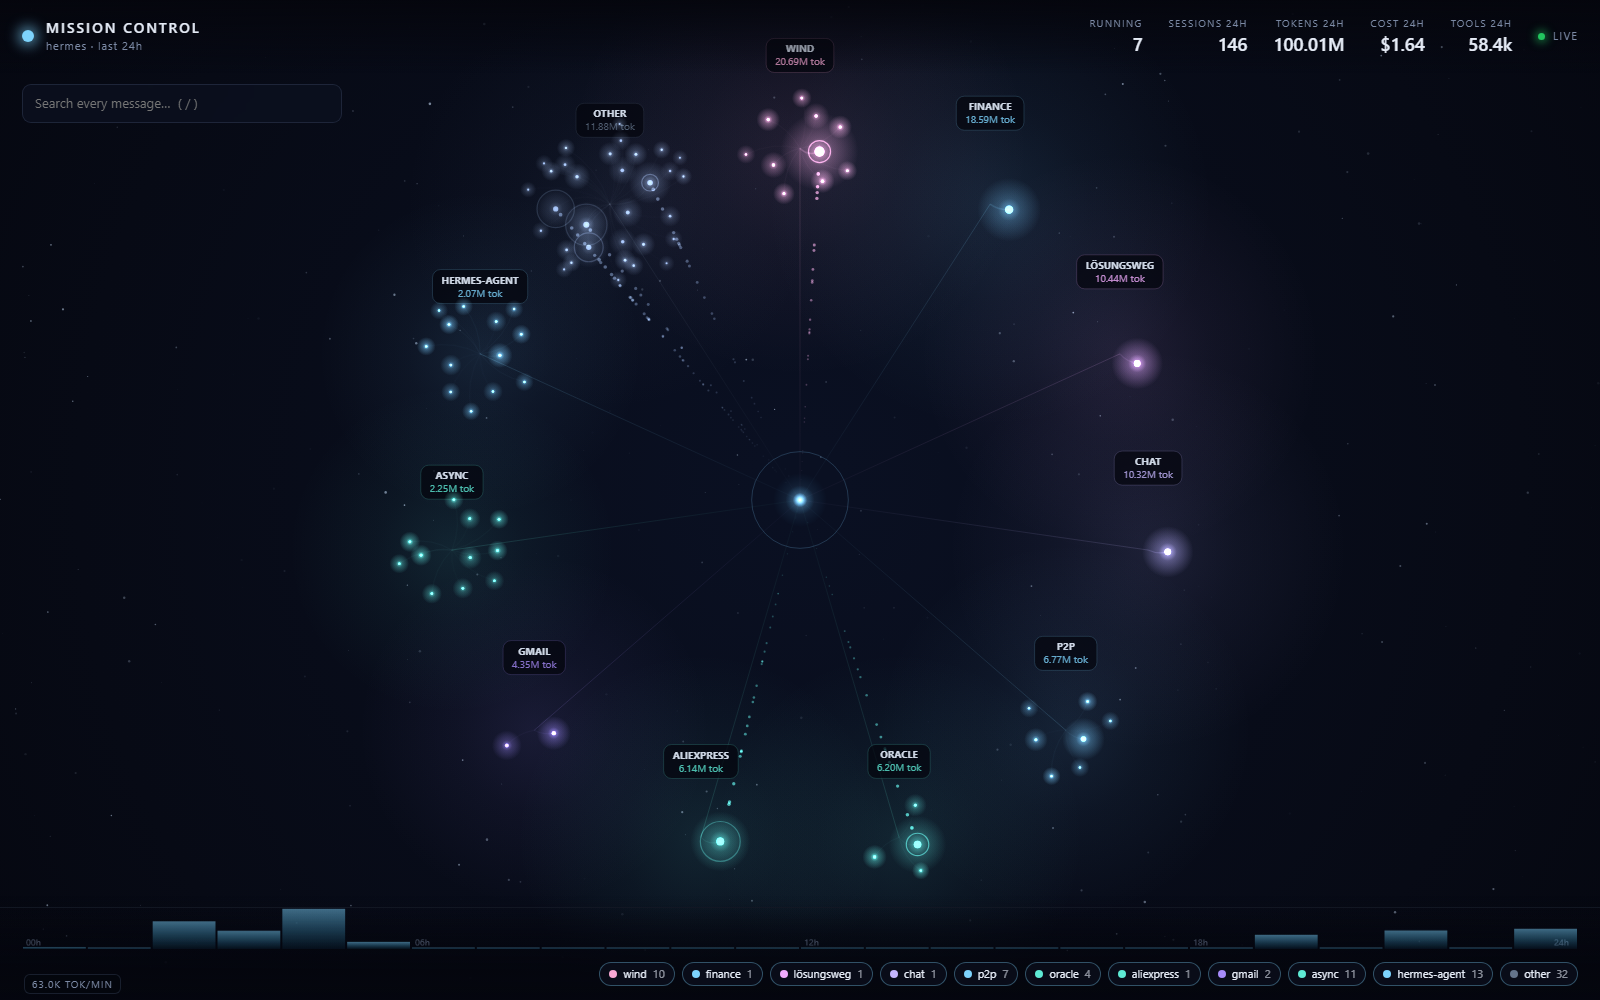
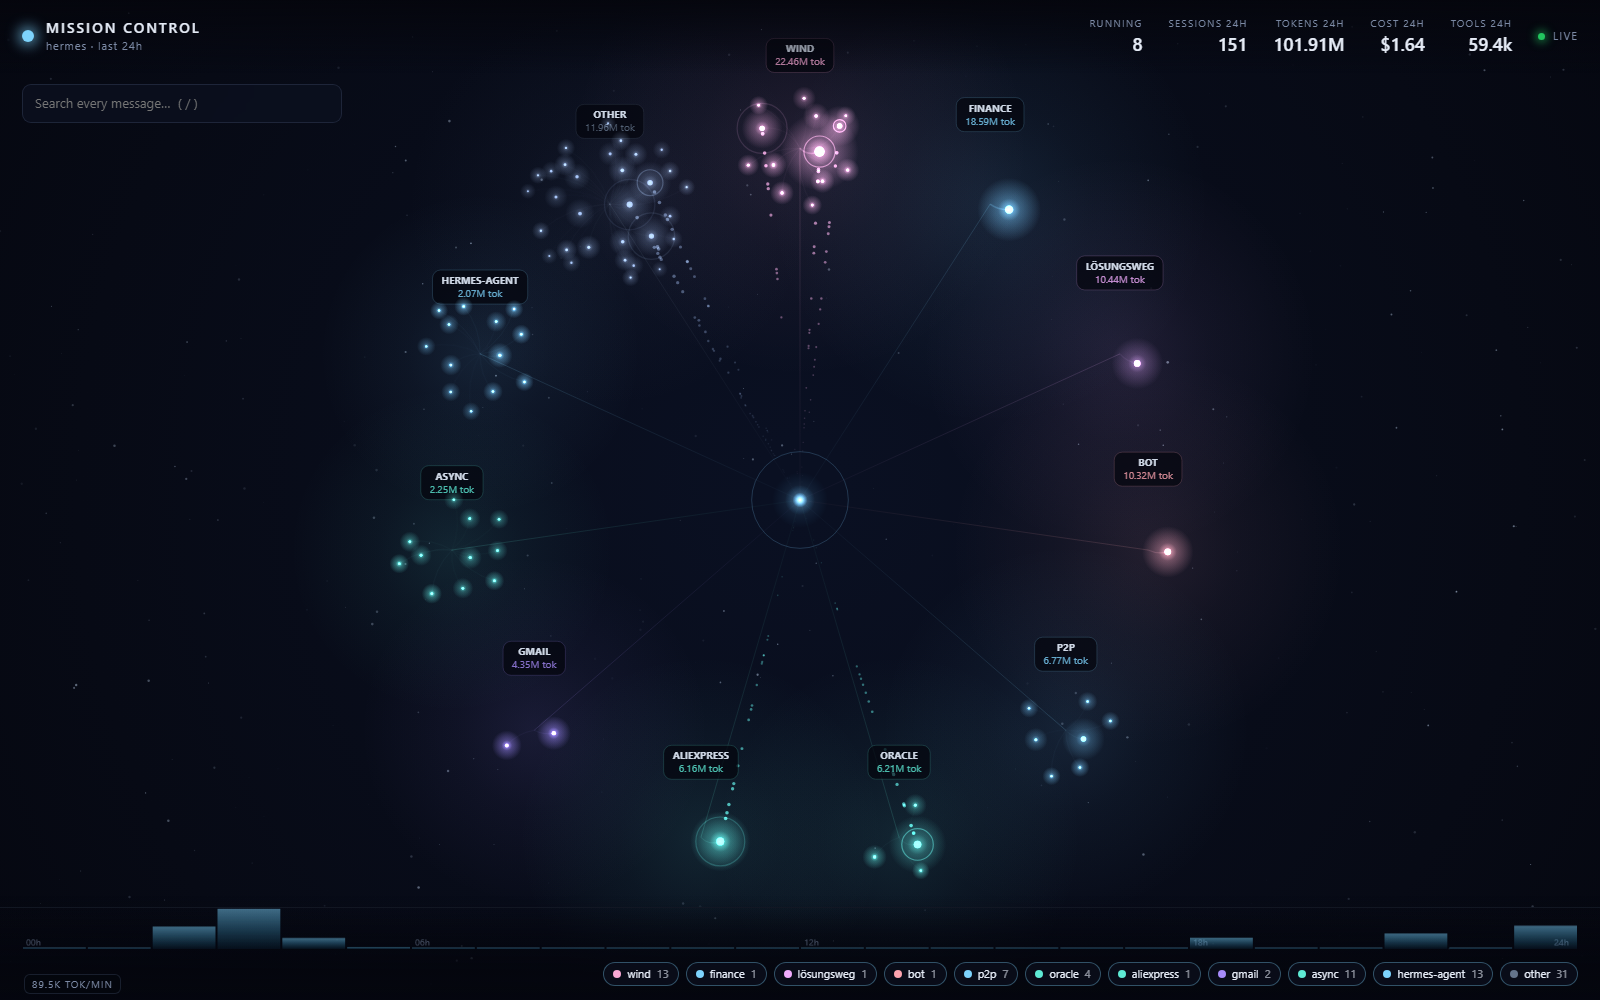
fix(tools): obey the plugin dispatch contract (args dict in, JSON string out)

diff --git a/mission/tools.py b/mission/tools.py
@@ -1,8 +1,12 @@
-"""Tool handlers: open the deck, read the deck, search the deck."""
+"""Tool handlers.
+
+Hermes dispatches plugin tools as ``handler(args: dict, **context)`` and requires a
+**string** result, so every entry point here takes a dict and returns JSON text.
+"""
 
 from __future__ import annotations
 
-import time
+import json
 
 from . import server, store
 
@@ -16,14 +20,18 @@ def _fmt(n: float) -> str:
     return str(int(n))
 
 
-def open_deck(port: int = server.DEFAULT_PORT, open_browser: bool = True) -> dict:
-    info = server.start(port=port, open_browser=open_browser)
+def _open(port: int = server.DEFAULT_PORT, open_browser: bool = True) -> dict:
+    try:
+        info = server.start(port=port, open_browser=open_browser)
+    except OSError:
+        # another profile already holds that port — take a free one instead of failing
+        info = server.start(port=0, open_browser=open_browser)
     snap = store.snapshot(hours=24)
     t = snap["totals"]
     lines = [
         f"Mission Control: {info['url']}",
         f"last 24h · {t['sessions']} sessions · {_fmt(t['tokens'])} tokens · ${t['cost']:.2f} · "
-        f"{t['tools']} tool calls · {t['running']} running",
+        f"{t['tools']} tool messages · {t['running']} running",
     ]
     live = [s for s in snap["sessions"] if s["live"]]
     for s in live[:6]:
@@ -40,13 +48,13 @@ def open_deck(port: int = server.DEFAULT_PORT, open_browser: bool = True) -> dic
     }
 
 
-def snapshot(hours: int = 24, top: int = 5) -> dict:
+def _snapshot(hours: int = 24, top: int = 5) -> dict:
     snap = store.snapshot(hours=hours)
     t = snap["totals"]
     burners = sorted(snap["sessions"], key=lambda s: -s["tokens"])[:top]
     lines = [
         f"{snap['profile']} · last {hours}h",
-        f"{t['sessions']} sessions · {_fmt(t['tokens'])} tokens · ${t['cost']:.2f} · {t['tools']} tool calls · {t['running']} running",
+        f"{t['sessions']} sessions · {_fmt(t['tokens'])} tokens · ${t['cost']:.2f} · {t['tools']} tool messages · {t['running']} running",
         "clusters: " + ", ".join(f"{c['label']} ({c['sessions']})" for c in snap["clusters"][:8]),
         "top token users:",
     ]
@@ -58,22 +66,48 @@ def snapshot(hours: int = 24, top: int = 5) -> dict:
     return {"ok": True, "summary": "\n".join(lines), "totals": t, "clusters": snap["clusters"][:8]}
 
 
-def search(query: str, limit: int = 20) -> dict:
+def _search(query: str, limit: int = 20) -> dict:
     hits = store.search(query, limit=limit)
     if not hits:
         return {"ok": True, "hits": [], "summary": f'no message contains "{query}"'}
     lines = [f'{len(hits)} hits for "{query}"']
     for h in hits[:10]:
         snippet = " ".join((h.get("snippet") or "").split())[:110]
-        lines.append(f"  {h['title'][:40]:<40} | {h['id']} | {snippet}")
+        lines.append(f"  {(h.get('title') or '')[:40]:<40} | {h['id']} | {snippet}")
     return {"ok": True, "hits": hits, "summary": "\n".join(lines)}
 
 
-def waste() -> dict:
+def _waste() -> dict:
     rows = store.waste()
     if not rows:
         return {"ok": True, "sessions": [], "summary": "no expensive low-action sessions in the last 7 days"}
     lines = ["most tokens per tool call (last 7d):"]
     for r in rows:
-        lines.append(f"  {_fmt(r['tokens']):>7} tok / {r['tools']:>2} tools · {r['title'][:56]}")
+        lines.append(f"  {_fmt(r['tokens']):>7} tok / {r['tools']:>2} tools · {(r.get('title') or '')[:56]}")
     return {"ok": True, "sessions": rows, "summary": "\n".join(lines)}
+
+
+def _as_text(payload: dict) -> str:
+    return json.dumps(payload, indent=2, ensure_ascii=False, default=str)
+
+
+# --- dispatched entry points (dict in, string out) ---------------------------
+
+def open_deck(args: dict | None = None, **_context) -> str:
+    args = args or {}
+    return _as_text(_open(int(args.get("port", server.DEFAULT_PORT)),
+                          bool(args.get("open_browser", True))))
+
+
+def snapshot(args: dict | None = None, **_context) -> str:
+    args = args or {}
+    return _as_text(_snapshot(int(args.get("hours", 24)), int(args.get("top", 5))))
+
+
+def search(args: dict | None = None, **_context) -> str:
+    args = args or {}
+    return _as_text(_search(str(args.get("query", "")), int(args.get("limit", 20))))
+
+
+def waste(args: dict | None = None, **_context) -> str:
+    return _as_text(_waste())

diff --git a/tests/test_mission.py b/tests/test_mission.py
@@ -132,15 +132,21 @@ def test_http_api(profile):
     server.stop()
 
 
-def test_tools_summaries(profile):
+def test_tools_contract(profile):
+    """Hermes calls handler(args) and requires a JSON string back."""
     from mission import tools
 
-    snap = tools.snapshot(hours=24)
-    assert "sessions" in snap["summary"]
-    assert "running" in snap["summary"]
-    found = tools.search("trades")
+    snap_text = tools.snapshot({"hours": 24})
+    assert isinstance(snap_text, str)
+    snap = json.loads(snap_text)
+    assert "sessions" in snap["summary"] and "running" in snap["summary"]
+
+    found = json.loads(tools.search({"query": "trades"}))
     assert found["hits"] and "1 hits" in found["summary"]
-    nothing = tools.search("zzz-nothing")
-    assert nothing["hits"] == []
-    open_info = tools.open_deck(port=0, open_browser=False)
-    assert open_info["ok"] is True and open_info["url"].startswith("http://127.0.0.1:")
+    assert json.loads(tools.search({"query": "zzz-nothing"}))["hits"] == []
+
+    opened = json.loads(tools.open_deck({"port": 0, "open_browser": False}))
+    assert opened["ok"] is True and opened["url"].startswith("http://127.0.0.1:")
+
+    assert json.loads(tools.waste({}))["ok"] is True
+    assert tools.snapshot({}) == tools.snapshot({"hours": 24})
